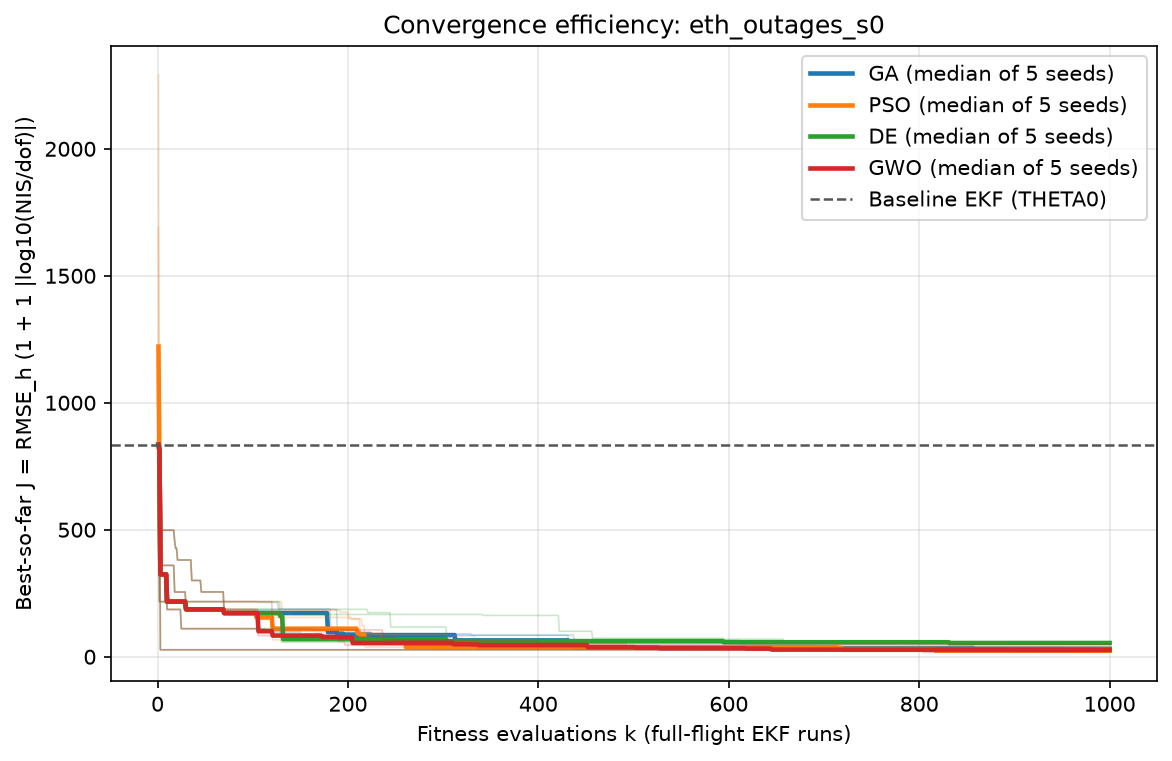
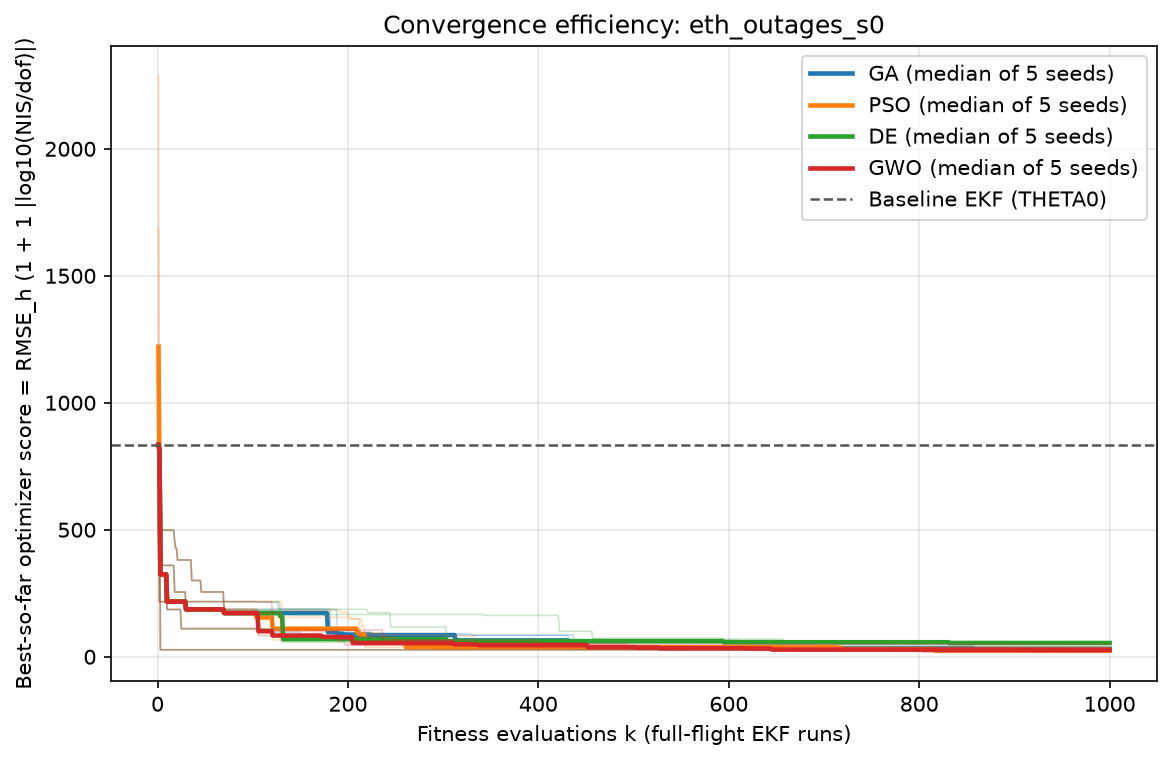
Call J the optimizer score and explain it in the README
- Tables, figure labels, run log and PSO progress line say "optimizer score" instead of J
- README: new section with the formula in words, a worked ETH example and why the log
- Run 2 tables and figures rebuilt with the new labels (numbers unchanged)

Changed region(s): [[0.0, 0.0604, 0.0307, 0.9067]]

diff --git a/main.py b/main.py
@@ -13,7 +13,7 @@ results/<scenario>/:
               75 % of the path: about 5 m added error, about 15 m, and a complete outage. Also writes
               sections.md/png (plot_sections.py): how each filter behaves in those sections.
     gps16m    the first run, kept in results/gps16m/: 16 m white GPS noise everywhere, position-only.
-Objective (NIS_WEIGHT): outages scores accuracy and consistency together, J = RMSE_h * (1 + |log10(mean
+Optimizer score (NIS_WEIGHT): outages scores accuracy and consistency together, score = RMSE_h * (1 + |log10(mean
 NIS / dof)|) (ekf.tuning.objective_value); gps16m keeps run 1's RMSE_h alone. GPS plausibility rule
 (PLAUSIBILITY): outages discards any fix the platform could not have reached (ekf.filter.OPTIONS).
 Preparing the datasets processes raw_data/ if needed and writes the degraded copies
@@ -22,7 +22,7 @@ serves one at a time: GA, PSO, DE, GWO, each with its own config (population 100
 evaluations per seed, seeds 1-5, BACKEND = "gpu"). Per dataset:
 
     1. validation   the first candidates GA scores for seed 1 are scored again by the filterpy
-                    reference on the CPU; the run stops if any difference (J, RMSE, NIS) exceeds the tolerance
+                    reference on the CPU; the run stops if any difference (score, RMSE, NIS) exceeds the tolerance
     2. baseline     THETA0 through the same fitness
     3. GA, PSO, DE, GWO: every seed, then the accounting check (n_evals = n_objective_evals =
                     convergence rows = MAX_EVALS) and the mean NIS of every incumbent on the
@@ -215,7 +215,7 @@ def validate(data, out, population, n_candidates, n_workers):
     if summary_path.exists():
         summary = json.loads(summary_path.read_text())
         if summary.get("passed"):
-            say(f"  validation: already passed (max difference of J {summary['max_diff_fitness']:.2e})")
+            say(f"  validation: already passed (max difference of the score {summary['max_diff_fitness']:.2e})")
             return summary
     out.mkdir(parents=True, exist_ok=True)
     n = min(n_candidates, population)
@@ -237,7 +237,7 @@ def validate(data, out, population, n_candidates, n_workers):
         say(f"  validation: {summary['n_unstable_excluded']} numerically chaotic candidate(s) (mean NIS > "
             f"{summary['nis_unstable']:g}) left out of the tolerance check; their |GPU - CPU| is up to "
             f"{summary['max_diff_fitness_unstable']:.1f} m, as rounding decides them on any backend")
-    say(f"  validation: max |GPU - CPU| of J {summary['max_diff_fitness']:.2e} -> "
+    say(f"  validation: max |GPU - CPU| of the score {summary['max_diff_fitness']:.2e} -> "
         f"{'PASSED' if summary['passed'] else 'FAILED'} (tolerance {TOL_RMSE:g}, relative above 1)")
     return summary
 
@@ -254,7 +254,7 @@ def baseline(data, out):
         rmse_base = row["rmse_h"]
         row.update(delta_vs_baseline=0.0, improvement_vs_baseline_pct=0.0)
         ekf.save_run(out, row, tracker)
-    say(f"  baseline: THETA0 J {row['fitness']:.4f}, RMSE_h {rmse_base:.4f} m, mean NIS {row['mean_nis']:.2f} "
+    say(f"  baseline: THETA0 score {row['fitness']:.4f}, RMSE_h {rmse_base:.4f} m, mean NIS {row['mean_nis']:.2f} "
         f"(consistent: {row['nis_dof']}), raw GPS {rmse_gps:.4f} m")
     return {"rmse_h": rmse_base, "rmse_gps": rmse_gps}
 
@@ -296,7 +296,7 @@ def run_optimizer(name, data, out, smoke):
             table.to_csv(out / f"incumbents_seed{s}.csv", index=False)
     t_inc = time.perf_counter() - t1
     best = runs.loc[runs["fitness"].idxmin()]
-    say(f"  {name} done: best seed {int(best['seed'])} J {best['fitness']:.4f}, RMSE_h {best['rmse_h']:.4f} m, "
+    say(f"  {name} done: best seed {int(best['seed'])} score {best['fitness']:.4f}, RMSE_h {best['rmse_h']:.4f} m, "
         f"mean NIS {best['mean_nis']:.2f}; "
         f"search {t_search / 60:.1f} min, incumbents {t_inc / 60:.1f} min")
     return {"seeds_run": to_run, "search_s": t_search, "incumbents_s": t_inc, "checks": checks}

diff --git a/plot_response.py b/plot_response.py
@@ -5,13 +5,13 @@
 
 Per dataset (results/<scenario>/<dataset>/), from runs.csv and convergence_seed<s>.csv of baseline, GA,
 PSO, DE and GWO (written by ekf.save_run):
-    results_table.md/.csv   mean +- std per optimizer: objective J, accuracy (RMSE_h), consistency (NIS),
+    results_table.md/.csv   mean +- std per optimizer: optimizer score, accuracy (RMSE_h), consistency (NIS),
                             convergence, compute
     convergence.png         best-so-far objective against evaluations, every seed and the median
 
 results/<scenario>/summary/ (one panel per dataset):
     results_table.md/.csv        every dataset and optimizer in one table
-    best_values.md/.csv          the best seed (lowest J) of each optimizer on each dataset, with its theta
+    best_values.md/.csv          the best seed (lowest optimizer score) of each optimizer on each dataset, with its theta
     convergence.png              each optimizer's median best-so-far objective, band = best to worst seed
     accuracy_vs_nis.png          the two measures: RMSE_h against mean NIS, one dot per seed, a diamond
                                  per optimizer mean, the consistent NIS (= dof) marked
@@ -35,7 +35,7 @@ GROUPS = ["baseline", *OPTIMIZERS]
 COLORS = {"baseline": "#555555", "GA": "#1f77b4", "PSO": "#ff7f0e", "DE": "#2ca02c", "GWO": "#d62728"}
 
 # Table columns in the fixed order: objective, accuracy, consistency, convergence, compute
-TABLE = [("fitness", "Objective J"),
+TABLE = [("fitness", "Optimizer score"),
          ("rmse_h", "Whole-flight RMSE_h (m)"),
          ("delta_vs_baseline", "vs baseline EKF (m)"),
          ("delta_vs_gps", "vs raw GPS (m)"),
@@ -70,10 +70,10 @@ def load_runs(out, groups=GROUPS):
 
 
 def objective(runs):
-    """(column, axis label) of what the search minimised: J, or RMSE_h for runs scored on it alone."""
+    """(column, axis label) of what the search minimised: the optimizer score, or RMSE_h for runs scored on it alone."""
     w = runs["nis_weight"].iloc[0] if "nis_weight" in runs and len(runs) else 0.0
     if "fitness" in runs and w:
-        return "fitness", f"J = RMSE_h (1 + {w:g} |log10(NIS/dof)|)"
+        return "fitness", f"optimizer score = RMSE_h (1 + {w:g} |log10(NIS/dof)|)"
     return "rmse_h", "RMSE_h (m)"
 
 
@@ -268,7 +268,7 @@ def summary(root, datasets, optimizers=OPTIMIZERS):
     allt = pd.concat(rows)
     allt.to_csv(out / "results_table.csv")
     keep = ["fitness", "rmse_h", "delta_vs_baseline", "delta_vs_gps", "mean_nis", "evals_to_converge", "t_total"]
-    lines = ["| Dataset | Method | Runs | J | RMSE_h (m) | vs baseline (m) | vs raw GPS (m) | Mean NIS (dof) | "
+    lines = ["| Dataset | Method | Runs | Optimizer score | RMSE_h (m) | vs baseline (m) | vs raw GPS (m) | Mean NIS (dof) | "
              "Evals to 99 % | T_total (s) |",
              "|---|---|---:|---:|---:|---:|---:|---:|---:|---:|"]
     for name, r in allt.iterrows():
@@ -281,7 +281,7 @@ def summary(root, datasets, optimizers=OPTIMIZERS):
     if best:
         b = pd.DataFrame(best)
         b.to_csv(out / "best_values.csv", index=False)
-        head = ("| Dataset | Optimizer (seed) | J | RMSE_h (m) | vs GPS (m) | NIS | "
+        head = ("| Dataset | Optimizer (seed) | Optimizer score | RMSE_h (m) | vs GPS (m) | NIS | "
                 + " | ".join(f"`{t}`" for t in THETA_NAMES) + " |")
         lines = [head, "|---|---|" + "---:|" * (4 + len(THETA_NAMES))]
         for _, r in b.iterrows():

diff --git a/ekf/tuning.py b/ekf/tuning.py
@@ -60,7 +60,7 @@ def theta_to_QR(theta):
 
 
 def objective_value(rmse_h, mean_nis, dof, ok=True):
-    """J from the two measures, element-wise for arrays; PENALTY for a failed run."""
+    """The optimizer score J from the two measures, element-wise for arrays; PENALTY for a failed run."""
     rmse_h, mean_nis = np.asarray(rmse_h, dtype=float), np.asarray(mean_nis, dtype=float)
     w = OBJECTIVE["nis_weight"]
     with np.errstate(divide="ignore", invalid="ignore"):
@@ -141,7 +141,7 @@ def evaluate(data, theta, bias0=None, x0=None):
 
 
 def fitness(data, theta):
-    """The optimization objective J(theta): whole-flight RMSE_h weighted by NIS consistency."""
+    """The optimizer score J(theta): whole-flight RMSE_h weighted by NIS consistency."""
     return evaluate(data, theta)["fitness"]
 
 

diff --git a/PSO.py b/PSO.py
@@ -39,7 +39,7 @@ class RunLog:
         rows.insert(0, "seed", self.seed)
         rows.to_csv(self.path, mode="a", index=False, header=not self.path.exists())
         print(f"seed {self.seed}  iter {iteration:3d}  k {cost_fn.n_evals:5d}  "
-              f"best J {cost_fn.best_cost:.4f}  elapsed {cost_fn.t_total:7.0f} s", flush=True)
+              f"best score {cost_fn.best_cost:.4f}  elapsed {cost_fn.t_total:7.0f} s", flush=True)
 
 
 def pso(cost_fn, rng, swarm_size=cfg.SWARM_SIZE, log=None):

diff --git a/README.md b/README.md
@@ -56,7 +56,7 @@ It runs from `main` with a CUDA build of PyTorch and refuses to start on another
 It first prepares the datasets: a source missing from `processed_data/` is processed from `raw_data/`, and its degraded copy is written by `make_noisy_gps.py` (`SECTIONS` there for `outages`, `NOISE` in `main.py` for `gps16m`); both steps are skipped when the files are already there. Then, for each dataset, it:
 
 1. centres `THETA0` and the bounds on that dataset (`ekf.load_data`, see below);
-2. checks the GPU objective: the first 24 candidates GA scores for seed 1 are scored again by the filterpy reference on the CPU; the run stops if any difference in J, RMSE or NIS exceeds `TOL_RMSE = 1e-6` (absolute up to 1, relative above). A candidate whose filter is numerically chaotic (mean NIS above 1,000) is reported but not held to the tolerance: on `street00_gps64m_s0` one such candidate (mean NIS about 75,000, vertical error about 50 km) moves between 82 and 123 m on the CPU alone when its parameters change by 10⁻¹², so rounding decides its result on any backend;
+2. checks the GPU objective: the first 24 candidates GA scores for seed 1 are scored again by the filterpy reference on the CPU; the run stops if any difference in the optimizer score, RMSE or NIS exceeds `TOL_RMSE = 1e-6` (absolute up to 1, relative above). A candidate whose filter is numerically chaotic (mean NIS above 1,000) is reported but not held to the tolerance: on `street00_gps64m_s0` one such candidate (mean NIS about 75,000, vertical error about 50 km) moves between 82 and 123 m on the CPU alone when its parameters change by 10⁻¹², so rounding decides its result on any backend;
 3. scores the baseline `THETA0`;
 4. runs GA, PSO, DE and GWO, five seeds each, then checks that every seed used exactly 1,000 evaluations (`n_evals`, `n_objective_evals` and the convergence-curve rows), and scores the mean NIS of every incumbent (each best-so-far θ) of every seed on the GPU (`ekf/response.py`), kept as data in `incumbents_seed<s>.csv`;
 5. writes the dataset's table and convergence figure.
@@ -124,11 +124,11 @@ The vehicles are slow (about 1.3 m/s on iNav-WHU, 0.6–0.9 m/s on ETH in these 
 
 **GPS plausibility rule.** In this scenario the filter discards any fix the platform could not have reached since the last accepted one, and keeps its IMU prediction instead ([GPS plausibility rule](#gps-plausibility-rule)).
 
-**Objective: accuracy and consistency.** Run 1 minimised RMSE_h alone, and its tuned filters ended far from consistent: mean NIS 0.1–1 on iNav-WHU and up to 190 on ETH, against 3 for a consistent filter. This scenario scores both measures, over the whole drive with the sections included:
+**Objective: accuracy and consistency.** Run 1 minimised RMSE_h alone, and its tuned filters ended far from consistent: mean NIS 0.1–1 on iNav-WHU and up to 190 on ETH, against 3 for a consistent filter. This scenario tunes on one **optimizer score** that combines both measures, over the whole drive with the sections included:
 
-$$J(\theta) = \text{RMSE}_h \cdot \left(1 + w \left|\log_{10}\frac{\overline{\text{NIS}}}{\text{dof}}\right|\right), \qquad w = 1$$
+$$\text{optimizer score}(\theta) = \text{RMSE}_h \cdot \left(1 + w \left|\log_{10}\frac{\overline{\text{NIS}}}{\text{dof}}\right|\right), \qquad w = 1$$
 
-so a filter whose mean NIS equals the number of GPS channels used (dof: 6 on ETH, with velocity; 3 on iNav-WHU) scores its RMSE_h, and one that is 10 times over- or underconfident counts double ([Canonical fitness](#canonical-fitness)). On 200 random candidates per dataset (`THETA0` and 199 uniform in the bounds, on the GPU), the lowest RMSE_h on `playground00` is 1.82 m at mean NIS 94.5, and the lowest J is 2.03 m at NIS 3.23. On `street00` J picks 2.39 m at NIS 3.06, rather than 2.26 m at NIS 4.19. On ETH both pick the same candidate, 53.1 m at NIS 2.15.
+so a filter whose mean NIS equals the number of GPS channels used (dof: 6 on ETH, with velocity; 3 on iNav-WHU) scores its RMSE_h, and one that is 10 times over- or underconfident counts double ([The optimizer score](#the-optimizer-score) explains it with an example). On 200 random candidates per dataset (`THETA0` and 199 uniform in the bounds, on the GPU), the lowest RMSE_h on `playground00` is 1.82 m at mean NIS 94.5, and the lowest optimizer score is 2.03 m at NIS 3.23. On `street00` the score picks 2.39 m at NIS 3.06, rather than 2.26 m at NIS 4.19. On ETH both pick the same candidate, 53.1 m at NIS 2.15.
 
 **What `plot_sections.py` reports.** For the baseline and the best seed of each optimizer, rerun on the filterpy reference, per section: the filter's RMSE_h and largest error in the section, its error when the section ends (for the outage, the drift on the IMU alone), RMSE_h over the next 30 s, the seconds until the error is back within the filter's own RMSE_h outside the sections, and the mean NIS of the updates in the section (how far the filter's confidence is from the degraded GPS); plus each run's RMSE_h outside the sections and over the whole drive. Files: `sections.md`/`.csv`/`.png` per dataset and in `summary/`; the maps also mark the three sections on the ground truth.
 
@@ -196,7 +196,8 @@ import numpy as np
 import ekf
 
 data = ekf.load_data()
-J = ekf.fitness(data, ekf.THETA0)                 # whole-flight horizontal RMSE, metres
+score = ekf.fitness(data, ekf.THETA0)             # optimizer score: RMSE_h weighted by NIS consistency
+rmse = ekf.evaluate(data, ekf.THETA0)["rmse_h"]   # whole-flight horizontal RMSE, metres
 
 # What every optimizer calls: same fitness, plus budget, best-so-far history and timing
 seed = 0
@@ -204,7 +205,7 @@ cost_fn = ekf.make_cost_fn(data, max_evals=1000, n_workers=8)
 population = np.random.default_rng(seed).uniform(ekf.LOWER, ekf.UPPER, (20, 7))
 costs = cost_fn.evaluate_many(population)         # or cost_fn(theta) for one candidate
 # ... the optimizer's own loop, until cost_fn.exhausted ...
-row, _ = ekf.run_summary(data, cost_fn, "GA", seed, rmse_baseline=J)
+row, _ = ekf.run_summary(data, cost_fn, "GA", seed, rmse_baseline=rmse)
 ekf.save_run("results/GA", row, cost_fn)          # runs.csv + convergence_seed<seed>.csv
 cost_fn.close()
 ```
@@ -311,19 +312,55 @@ One map per filter for each dataset: the baseline EKF at `THETA0` (dashed) and t
 
 `python main.py` (scenario `outages`) on an RTX 4060 Laptop GPU, 22 November 2026: GA, PSO, DE and GWO, population 100 × 10 generations = 1,000 evaluations × seeds 1–5, on `eth_outages_s0`, `playground00_outages_s0` and `street00_outages_s0`, each from its own `THETA0`. Setup:
 - the raw GPS of each receiver, with three sections of 76.2 m (250 ft) of travel: about 5 m added error, about 15 m, and an outage ([scenario](#scenario-outages-raw-gps-with-degraded-sections));
-- the objective J, which weighs RMSE_h by NIS consistency ([Canonical fitness](#canonical-fitness));
+- the optimizer score, which weighs RMSE_h by NIS consistency ([below](#the-optimizer-score));
 - the GPS plausibility rule on ([GPS plausibility rule](#gps-plausibility-rule)).
 
-Total 9.75 h: ETH 0.65 h, `playground00` 4.40 h, `street00` 4.64 h. The GPU-vs-filterpy check of J passed on all three datasets (largest scaled difference 7.1 × 10⁻⁹, no chaotic candidates), and every seed used exactly 1,000 evaluations. All numbers are re-scored by the filterpy reference. Full tables:
+Total 9.75 h: ETH 0.65 h, `playground00` 4.40 h, `street00` 4.64 h. The GPU-vs-filterpy check of the optimizer score passed on all three datasets (largest scaled difference 7.1 × 10⁻⁹, no chaotic candidates), and every seed used exactly 1,000 evaluations. All numbers are re-scored by the filterpy reference. Full tables:
 - [`results/outages/summary/results_table.md`](results/outages/summary/results_table.md)
 - [`best_values.md`](results/outages/summary/best_values.md)
 - [`sections.md`](results/outages/summary/sections.md)
+
+### The optimizer score
+
+The four optimizers each minimise one number, so the two measures, accuracy (RMSE_h) and consistency (NIS), are combined into one **optimizer score**:
+
+$$\text{optimizer score} = \text{RMSE}_h \times \left(1 + \left|\log_{10}\frac{\text{mean NIS}}{\text{dof}}\right|\right)$$
+
+- **RMSE_h** is the horizontal position error over the whole drive, in metres.
+- **mean NIS / dof** says how honest the filter's confidence is. `dof` is the mean NIS of a consistent filter: 6 on ETH (GPS position and velocity), 3 on iNav-WHU (position only).
+- **The multiplier** is 1 when NIS = dof, so a consistent filter scores exactly its RMSE_h. The further NIS is from dof, too high (overconfident) or too low (underconfident), the larger the multiplier. A filter 10× off either way scores twice its RMSE_h.
+
+The score has no physical unit; it only ranks candidates. Read accuracy from the RMSE_h column and consistency from the NIS column.
+
+**Example, from the ETH rows below:**
+
+| | RMSE_h | Mean NIS (dof 6) | Multiplier | Optimizer score |
+|---|---:|---:|---:|---:|
+| Baseline (`THETA0`) | 609.29 m | 2.55 | 1 + \|log₁₀(2.55 / 6)\| = 1.37 | 835.7 |
+| GWO, best seed | 16.63 m | 5.55 | 1 + \|log₁₀(5.55 / 6)\| = 1.03 | 17.20 |
+
+The baseline's score is 37 % above its RMSE_h because its NIS is less than half of 6; GWO's best seed is nearly consistent, so its score is close to its RMSE_h. On iNav-WHU the tuned filters end at NIS ≈ 3, so their score and RMSE_h nearly coincide (1.845 against 1.834 for GWO on `playground00`).
+
+**Why the log.** NIS is wrong by a factor, not by an amount, and the log measures factors:
+
+| Mean NIS (dof 3) | Plain difference \|NIS − 3\| | \|log₁₀(NIS / 3)\| |
+|---:|---:|---:|
+| 6 (2× overconfident) | 3.0 | 0.30 |
+| 1.5 (2× underconfident) | 1.5 | 0.30 |
+| 30 (10× overconfident) | 27 | 1.0 |
+| 0.3 (10× underconfident) | 2.7 | 1.0 |
+
+1. **Over- and underconfidence count the same.** A plain difference would punish the overconfident filter up to 10× harder, since NIS can grow without limit but cannot fall below 0.
+2. **NIS cannot swamp accuracy.** NIS reached 190 in run 1 and thousands for some random candidates. On the log scale 190 is a multiplier of 2.8, a strong push toward consistency that still leaves RMSE_h in charge.
+3. **It matches the search variables.** θ holds log₁₀ of the noise variances, and NIS scales roughly with how wrong R is (R 10× too small gives NIS about 10× too large). One unit of `log_r_xy` moves the penalty by about one unit, and dividing by `dof` makes it the same on ETH and iNav-WHU.
+
+The weight in front of the log (1 here, `NIS_WEIGHT` in `main.py`) is a choice: at 0.5 the score would lean toward accuracy, at 2 harder toward consistency. Code: `ekf.tuning.objective_value`; details in [Canonical fitness](#canonical-fitness).
 
 ### Headline numbers
 
 Mean ± std over 5 seeds, over the whole drive with the sections included. Raw GPS is the error of the degraded fixes. A consistent filter has mean NIS = dof: 6 on ETH (position and velocity), 3 on iNav-WHU.
 
-| Dataset (raw GPS) | Method | J | RMSE_h (m) | Mean NIS (dof) | Evals to 99 % | Time per seed |
+| Dataset (raw GPS) | Method | Optimizer score | RMSE_h (m) | Mean NIS (dof) | Evals to 99 % | Time per seed |
 |---|---|---:|---:|---:|---:|---:|
 | ETH (4.61 m) | Baseline (`THETA0`) | 835.7 | 609.29 | 2.55 (6) | – | – |
 | | GA | 29.38 ± 6.50 | 25.44 ± 6.94 | 9.45 | 491 ± 366 | 1.8 min |
@@ -358,15 +395,15 @@ The best seed of each optimizer against the baseline (`plot_sections.py`, all nu
 
 1. **Tuning makes the iNav-WHU filter bridge the outage.** At `THETA0` the 54–61 s outage ends 71 m (`playground00`) and 35 m (`street00`) off. The tuned filters end it 0.9–3.8 m and 3.5–11.6 m off, so the whole-drive RMSE_h falls from 6.58 to 1.83 m and from 3.94 to 2.04 m. That is 41 % and 36 % below the raw GPS (3.09 and 3.20 m with the sections). The price is small: outside the sections the tuned filters are 0.04–0.17 m worse than `THETA0` (1.16–1.29 against 1.12 m), which trusts the receiver's ~1 m fixes more.
 2. **The noisy sections are smoothed.** In the 15 m section (GPS error about 17 m) the tuned iNav-WHU filters stay at 5.7–7.3 m, against 9.1–10.0 m at `THETA0`; in the 5 m section 1.9–2.2 m against 2.8 m. On ETH, GPS velocity keeps every filter at 3–5 m in both noisy sections, tuned or not.
-3. **NIS is consistent now.** With J, every iNav-WHU optimizer ends at mean NIS 2.95–3.17 for 3 (run 1: 0.1–1), and ETH at 5.2–9.5 for 6. `THETA0` is overconfident on the degraded GPS (13–17 on iNav-WHU). The mean is over the whole drive. The filter is not told when the GPS degrades, so inside the 15 m section its NIS is still 58–65 on iNav-WHU and 99–235 on ETH, and it is slightly underconfident elsewhere to make up for it.
-4. **ETH's IMU cannot bridge 82 s.** Tuning cuts the outage drift from 7.4 km to 50–292 m and the whole-drive RMSE_h from 609 m to 16.5–53.5 m, but that is still well above the raw GPS (4.61 m). The result depends on the seed (± 7–16 m). GA and DE seed 2 end on the identical θ: both start from the same initial population for the same seed, found their best at evaluation 3, and never improved on it in the other 997. On ETH, J is dominated by how the outage drift happens to fall, which the optimizers cannot steer well.
-5. **GWO and PSO lead.** GWO has the best mean J on all three datasets. PSO is within 0.003 (`playground00`) and 0.02 (`street00`) of it, has the smallest spread on `street00`, and converges fastest on iNav-WHU (156 and 183 evaluations to 99 %, against 365–673 for the others). DE is last on every dataset. On `playground00` all four are within 0.08 of each other in J.
+3. **NIS is consistent now.** With the optimizer score, every iNav-WHU optimizer ends at mean NIS 2.95–3.17 for 3 (run 1: 0.1–1), and ETH at 5.2–9.5 for 6. `THETA0` is overconfident on the degraded GPS (13–17 on iNav-WHU). The mean is over the whole drive. The filter is not told when the GPS degrades, so inside the 15 m section its NIS is still 58–65 on iNav-WHU and 99–235 on ETH, and it is slightly underconfident elsewhere to make up for it.
+4. **ETH's IMU cannot bridge 82 s.** Tuning cuts the outage drift from 7.4 km to 50–292 m and the whole-drive RMSE_h from 609 m to 16.5–53.5 m, but that is still well above the raw GPS (4.61 m). The result depends on the seed (± 7–16 m). GA and DE seed 2 end on the identical θ: both start from the same initial population for the same seed, found their best at evaluation 3, and never improved on it in the other 997. On ETH, the score is dominated by how the outage drift happens to fall, which the optimizers cannot steer well.
+5. **GWO and PSO lead.** GWO has the best mean optimizer score on all three datasets. PSO is within 0.003 (`playground00`) and 0.02 (`street00`) of it, has the smallest spread on `street00`, and converges fastest on iNav-WHU (156 and 183 evaluations to 99 %, against 365–673 for the others). DE is last on every dataset. On `playground00` all four are within 0.08 of each other in the score.
 6. **The plausibility rule.** It discarded 4–5 fixes in each iNav-WHU run and 20–60 of ETH's 13,118.
 7. **Compute.** A seed takes 1.8 min on ETH and 12.2–12.9 min on iNav-WHU; the run took 9.75 h, about the same as run 1 (9.77 h).
 
 ### Graphs
 
-**Convergence: best-so-far J against evaluations, median of 5 seeds; band = best to worst seed**
+**Convergence: best-so-far optimizer score against evaluations, median of 5 seeds; band = best to worst seed**
 
 ![Convergence](results/outages/summary/convergence.png)
 
@@ -572,18 +609,18 @@ complete estimated trajectory vs complete ground truth
       ↓
 whole-flight horizontal RMSE  +  mean NIS of the GPS updates
       ↓
-fitness J(theta)  (ekf.tuning.objective_value)
+optimizer score  (ekf.tuning.objective_value)
 ```
 
-$$J(\theta) = \text{RMSE}_{h,\text{whole}} \cdot \left(1 + w \left|\log_{10}\frac{\overline{\text{NIS}}}{\text{dof}}\right|\right)$$
+$$\text{optimizer score}(\theta) = \text{RMSE}_{h,\text{whole}} \cdot \left(1 + w \left|\log_{10}\frac{\overline{\text{NIS}}}{\text{dof}}\right|\right)$$
 
-`dof` is the number of GPS channels the filter uses (`ekf.nis_dof`), the mean NIS of a consistent filter. The log treats over- and underconfidence alike: NIS = dof × 10 and dof / 10 both multiply RMSE_h by 1 + w. `w` is `ekf.tuning.OBJECTIVE["nis_weight"]`, set by `main.py` per scenario (`NIS_WEIGHT`): 1 for `outages`, 0 for `gps16m`, where J is RMSE_h alone, as in run 1. Every run records both measures apart (`rmse_h`, `mean_nis`, `nis_consistency` = |log10(NIS/dof)|) next to `fitness` and `nis_weight` in `runs.csv`.
+`dof` is the number of GPS channels the filter uses (`ekf.nis_dof`), the mean NIS of a consistent filter. The log treats over- and underconfidence alike: NIS = dof × 10 and dof / 10 both multiply RMSE_h by 1 + w. `w` is `ekf.tuning.OBJECTIVE["nis_weight"]`, set by `main.py` per scenario (`NIS_WEIGHT`): 1 for `outages`, 0 for `gps16m`, where the score is RMSE_h alone, as in run 1. Every run records both measures apart (`rmse_h`, `mean_nis`, `nis_consistency` = |log10(NIS/dof)|) next to the score (`fitness`) and `nis_weight` in `runs.csv`. [The optimizer score](#the-optimizer-score) works through an example.
 
 A run that diverges scores `PENALTY = 10⁶`, above any run that does not: a run counts as diverged when a position passes `MAX_POSITION = 10⁶` m. The old penalty, 1000 m, ranked a diverged run above a long ETH outage drift. The baseline `THETA0` and every optimizer (GA, PSO, DE, GWO and any later one) are scored by this function. Optimizers do not reimplement it; they call it through `FitnessTracker` (`ekf.make_cost_fn`), which:
 
 - counts evaluations and stops at `max_evals` (`BudgetExhausted` for single calls; `evaluate_many` scores only what still fits),
 - clips candidates to the bounds,
-- records $J_k$, the best-so-far $J^*(k)$ and elapsed time after every evaluation,
+- records each evaluation's score $S_k$, the best-so-far $S^*(k)$ and elapsed time after every evaluation,
 - can score a population in parallel (`n_workers`), recording results in population order, so the count and the curve are the same as in a serial run,
 - or, with `backend="gpu"`, score the whole population as one batched EKF on the GPU (next section),
 - numbers each objective call as a generation and records `generation` with every evaluation.
@@ -599,7 +636,7 @@ GPU backend:     [200 candidates] -> batched EKF -> [200 fitness values]
 
 Only the candidate dimension is batched. The time recursion is the reference loop unchanged: the same IMU predictions, the same GPS updates in the same order, quaternion normalisation after each, and the same divergence checks. Each candidate keeps its own state, covariance, $Q_c$ and $R$. All arithmetic is float64. The small quaternion matrices come from constant matrices built from the reference helpers in `filter.py`, so both backends use the same functions. Each IMU step (prediction plus 0, 1 or 2 GPS updates) is recorded once as a CUDA graph and replayed, which removes Python overhead from the 27 048-step loop.
 
-**Equivalence.** `ekf.gpu.compare_with_cpu(data, thetas)` scores the same candidates with both backends; the accepted tolerance is `TOL_RMSE = 1e-6` (on J and every RMSE; absolute up to 1, relative above) and `TOL_NIS_REL = 1e-6`. On the RTX 4060, for GA seed 1's first generation on ETH (200 candidates, in an earlier run), 195 candidates agreed to better than $10^{-12}$ m. The largest fitness difference was $7.4 \times 10^{-8}$ m, for a strongly overconfident candidate (mean NIS 110) whose ill-conditioned updates amplify rounding. The largest relative difference in mean NIS was $7.6 \times 10^{-9}$. A candidate that diverges fails on both backends and scores `PENALTY`. `main.py` repeats this check on every dataset before any optimizer runs (`results/<dataset>/validation/`).
+**Equivalence.** `ekf.gpu.compare_with_cpu(data, thetas)` scores the same candidates with both backends; the accepted tolerance is `TOL_RMSE = 1e-6` (on the optimizer score and every RMSE; absolute up to 1, relative above) and `TOL_NIS_REL = 1e-6`. On the RTX 4060, for GA seed 1's first generation on ETH (200 candidates, in an earlier run), 195 candidates agreed to better than $10^{-12}$ m. The largest fitness difference was $7.4 \times 10^{-8}$ m, for a strongly overconfident candidate (mean NIS 110) whose ill-conditioned updates amplify rounding. The largest relative difference in mean NIS was $7.6 \times 10^{-9}$. A candidate that diverges fails on both backends and scores `PENALTY`. `main.py` repeats this check on every dataset before any optimizer runs (`results/<dataset>/validation/`).
 
 **Reported values always come from the reference.** `run_summary` re-scores the final best theta with the filterpy filter on the CPU. The GPU only drives the search. `best_fitness_search` is the value the search saw and `search_vs_final_diff` shows the (rounding-level) difference.
 
@@ -634,7 +671,7 @@ Optimizers are compared on three dimensions, always in this order:
 | # | Dimension | Question | Primary metric | Column in `runs.csv` |
 |---|---|---|---|---|
 | 1 | Accuracy | Is the final solution good? | $\text{RMSE}_{h,\text{whole}}$ of the best theta | `rmse_h` |
-| 2 | Convergence efficiency | How quickly was a good solution found? | $J^*(k)$ against $k$ | `convergence_seed<seed>.csv`; summary `evals_to_converge` |
+| 2 | Convergence efficiency | How quickly was a good solution found? | $S^*(k)$ against $k$ | `convergence_seed<seed>.csv`; summary `evals_to_converge` |
 | 3 | Computational cost | What effort was needed? | $N_{eval}$ | `n_evals`; secondary `t_total`, `t_eval` |
 
 ### 1. Accuracy
@@ -678,9 +715,9 @@ Each perturbation uses its own fixed seed, so every optimizer sees the same nois
 
 For each run, the best-so-far fitness after every evaluation is recorded:
 
-$$J^*(k) = \min_{i \le k} J_i$$
+$$S^*(k) = \min_{i \le k} S_i$$
 
-The convergence curve, best-so-far whole-flight RMSE against evaluation count $k$, is the primary representation and is plotted for every optimizer and seed. As a single number, `evals_to_converge` is the first $k$ at which the run has made 99 % of its total improvement from $J^*(1)$ to $J^*(N)$; `evals_to_best` is the $k$ of the final best. Two optimizers with the same final RMSE can differ widely here.
+The convergence curve, the best-so-far optimizer score (whole-flight RMSE in run 1) against evaluation count $k$, is the primary representation and is plotted for every optimizer and seed. As a single number, `evals_to_converge` is the first $k$ at which the run has made 99 % of its total improvement from $S^*(1)$ to $S^*(N)$; `evals_to_best` is the $k$ of the final best. Two optimizers with the same final RMSE can differ widely here.
 
 ### 3. Computational cost
 
@@ -712,12 +749,12 @@ Every run produces a row with these values, so the comparison can be laid out as
 | `results/<scenario>/<dataset>/<OPT>/` | `runs.csv` (one row per seed), `convergence_seed<s>.csv` (every evaluation: k, generation, fitness, best-so-far, time, θ), `incumbents_seed<s>.csv` (mean NIS of every best-so-far θ), and the PSO, DE and GWO live logs |
 | `results/<scenario>/<dataset>/` | `results_table.md`/`.csv`, `convergence.png`, `map.png`, `map.html` |
 | `results/<scenario>/<dataset>/` (`outages`) | `sections.md`/`.csv`/`.png`: the filters in each degraded GPS section |
-| `results/<scenario>/summary/` | `results_table.md`/`.csv` (all datasets), `best_values.md`/`.csv` (best seed, lowest J, per optimizer and dataset, with θ), `convergence.png`, `accuracy_vs_convergence.png`, `accuracy_vs_nis.png` |
+| `results/<scenario>/summary/` | `results_table.md`/`.csv` (all datasets), `best_values.md`/`.csv` (best seed, lowest optimizer score, per optimizer and dataset, with θ), `convergence.png`, `accuracy_vs_convergence.png`, `accuracy_vs_nis.png` |
 | `results/<scenario>/main.log`, `results/<scenario>/main_manifest.json` | Console output and per-session record |
 
 `<scenario>` is `outages` or `gps16m`. `<dataset>` is `eth_outages_s0`, `inavwhu/playground00_outages_s0` and `inavwhu/street00_outages_s0`, or `eth_gps16m_nov_s0`, `inavwhu/playground00_gps16m_s0` and `inavwhu/street00_gps16m_s0`. The `summary/` folder of `outages` also has `sections.md`/`.csv`/`.png` over every dataset.
 
-**Summary figures (one panel per dataset).** `convergence.png` shows each optimizer's median best-so-far objective (J, or RMSE_h for run 1) against evaluations, with a band from its best to its worst seed. `accuracy_vs_nis.png` shows the two measures together: final RMSE_h against mean NIS (log scale, the consistent value marked), one dot per seed, one diamond per optimizer. `accuracy_vs_convergence.png` puts final RMSE_h against evaluations to 99 % of improvement: one dot per seed, one diamond per optimizer mean, mean NIS in the legend.
+**Summary figures (one panel per dataset).** `convergence.png` shows each optimizer's median best-so-far optimizer score (RMSE_h alone in run 1) against evaluations, with a band from its best to its worst seed. `accuracy_vs_nis.png` shows the two measures together: final RMSE_h against mean NIS (log scale, the consistent value marked), one dot per seed, one diamond per optimizer. `accuracy_vs_convergence.png` puts final RMSE_h against evaluations to 99 % of improvement: one dot per seed, one diamond per optimizer mean, mean NIS in the legend.
 
 **Committing the results.** Per the branch split, `main` keeps the results and `results` keeps the graphs:
 
@@ -832,7 +869,7 @@ $t_a$ is the time of the last accepted fix and $\hat p_{en}(t_a)$ the filter's h
 
 **Measured on the `outages` datasets** (`THETA0` and 199 random candidates on the GPU, rule off / on with `plausible_m` = 25, 15 and 10 m):
 
-| | `plausible_m` | Fixes discarded at `THETA0` | RMSE_h at `THETA0` (m) | Best J of the 200: RMSE_h (m), NIS |
+| | `plausible_m` | Fixes discarded at `THETA0` | RMSE_h at `THETA0` (m) | Lowest optimizer score of the 200: RMSE_h (m), NIS |
 |---|---:|---:|---:|---|
 | ETH (13,118 fixes) | off | 0 | 610.5 | 53.1, 2.15 |
 | | **25** | 25 | 609.3 | 52.5, 0.67 |

diff --git a/results/outages/inavwhu/playground00_outages_s0/results_table.md b/results/outages/inavwhu/playground00_outages_s0/results_table.md
@@ -1,6 +1,6 @@
 Dataset `inavwhu/playground00_outages_s0`. Raw GPS RMSE_h 3.093 m.
 
-| Optimizer | Runs | Objective J | Whole-flight RMSE_h (m) | vs baseline EKF (m) | vs raw GPS (m) | Mean NIS (expect 3) | abs(log10(NIS / dof)) | Evals to 99 % of improvement | Evals to best | N_eval | T_total (s) | T_objective per eval (s) |
+| Optimizer | Runs | Optimizer score | Whole-flight RMSE_h (m) | vs baseline EKF (m) | vs raw GPS (m) | Mean NIS (expect 3) | abs(log10(NIS / dof)) | Evals to 99 % of improvement | Evals to best | N_eval | T_total (s) | T_objective per eval (s) |
 |---|---:|---:|---:|---:|---:|---:|---:|---:|---:|---:|---:|---:|
 | baseline | 1 | 11.601 | 6.582 | 0.000 | 3.489 | 17.366 | 0.763 | 1 | 1 | 1 | 25.759 | 25.759 |
 | GA | 5 | 1.853 ± 0.011 | 1.836 ± 0.029 | -4.746 ± 0.029 | -1.257 ± 0.029 | 3.046 ± 0.109 | 0.010 ± 0.013 | 366 ± 159 | 887 ± 87 | 1,000 | 732.459 ± 0.068 | 0.732 ± 0.000 |

diff --git a/results/outages/inavwhu/street00_outages_s0/results_table.md b/results/outages/inavwhu/street00_outages_s0/results_table.md
@@ -1,6 +1,6 @@
 Dataset `inavwhu/street00_outages_s0`. Raw GPS RMSE_h 3.202 m.
 
-| Optimizer | Runs | Objective J | Whole-flight RMSE_h (m) | vs baseline EKF (m) | vs raw GPS (m) | Mean NIS (expect 3) | abs(log10(NIS / dof)) | Evals to 99 % of improvement | Evals to best | N_eval | T_total (s) | T_objective per eval (s) |
+| Optimizer | Runs | Optimizer score | Whole-flight RMSE_h (m) | vs baseline EKF (m) | vs raw GPS (m) | Mean NIS (expect 3) | abs(log10(NIS / dof)) | Evals to 99 % of improvement | Evals to best | N_eval | T_total (s) | T_objective per eval (s) |
 |---|---:|---:|---:|---:|---:|---:|---:|---:|---:|---:|---:|---:|
 | baseline | 1 | 6.475 | 3.940 | 0.000 | 0.738 | 13.199 | 0.643 | 1 | 1 | 1 | 27.381 | 27.381 |
 | GA | 5 | 2.265 ± 0.098 | 2.222 ± 0.109 | -1.718 ± 0.109 | -0.979 ± 0.109 | 2.949 ± 0.175 | 0.019 ± 0.017 | 593 ± 221 | 755 ± 267 | 1,000 | 772.179 ± 0.097 | 0.772 ± 0.000 |

diff --git a/results/outages/eth_outages_s0/results_table.md b/results/outages/eth_outages_s0/results_table.md
@@ -1,6 +1,6 @@
 Dataset `eth_outages_s0`. Raw GPS RMSE_h 4.612 m.
 
-| Optimizer | Runs | Objective J | Whole-flight RMSE_h (m) | vs baseline EKF (m) | vs raw GPS (m) | Mean NIS (expect 6) | abs(log10(NIS / dof)) | Evals to 99 % of improvement | Evals to best | N_eval | T_total (s) | T_objective per eval (s) |
+| Optimizer | Runs | Optimizer score | Whole-flight RMSE_h (m) | vs baseline EKF (m) | vs raw GPS (m) | Mean NIS (expect 6) | abs(log10(NIS / dof)) | Evals to 99 % of improvement | Evals to best | N_eval | T_total (s) | T_objective per eval (s) |
 |---|---:|---:|---:|---:|---:|---:|---:|---:|---:|---:|---:|---:|
 | baseline | 1 | 835.673 | 609.294 | 0.000 | 604.683 | 2.550 | 0.372 | 1 | 1 | 1 | 5.313 | 5.313 |
 | GA | 5 | 29.383 ± 6.498 | 25.441 ± 6.939 | -583.854 ± 6.939 | 20.829 ± 6.939 | 9.454 ± 4.821 | 0.175 ± 0.195 | 491 ± 366 | 720 ± 404 | 1,000 | 106.187 ± 0.109 | 0.106 ± 0.000 |

diff --git a/results/outages/summary/best_values.md b/results/outages/summary/best_values.md
@@ -1,4 +1,4 @@
-| Dataset | Optimizer (seed) | J | RMSE_h (m) | vs GPS (m) | NIS | `log_q_acc` | `log_q_gyro` | `log_q_ba` | `log_q_bg` | `log_r_xy` | `log_r_z` | `log_r_vel` |
+| Dataset | Optimizer (seed) | Optimizer score | RMSE_h (m) | vs GPS (m) | NIS | `log_q_acc` | `log_q_gyro` | `log_q_ba` | `log_q_bg` | `log_r_xy` | `log_r_z` | `log_r_vel` |
 |---|---|---:|---:|---:|---:|---:|---:|---:|---:|---:|---:|---:|
 | eth_outages_s0 | GA (5) | 19.700 | 19.598 | +14.987 | 5.93 | -0.22 | -0.30 | -8.00 | -6.16 | 0.77 | 0.49 | 0.52 |
 | eth_outages_s0 | PSO (2) | 22.296 | 16.491 | +11.880 | 13.49 | -0.27 | -1.92 | -2.23 | -6.93 | 0.72 | 0.13 | -0.36 |

diff --git a/results/outages/summary/results_table.md b/results/outages/summary/results_table.md
@@ -1,6 +1,6 @@
 Mean ± std over seeds.
 
-| Dataset | Method | Runs | J | RMSE_h (m) | vs baseline (m) | vs raw GPS (m) | Mean NIS (dof) | Evals to 99 % | T_total (s) |
+| Dataset | Method | Runs | Optimizer score | RMSE_h (m) | vs baseline (m) | vs raw GPS (m) | Mean NIS (dof) | Evals to 99 % | T_total (s) |
 |---|---|---:|---:|---:|---:|---:|---:|---:|---:|
 | eth_outages_s0 | baseline | 1 | 835.673 | 609.294 | 0.000 | 604.683 | 2.550 (6) | 1 | 5.313 |
 | eth_outages_s0 | GA | 5 | 29.383 ± 6.498 | 25.441 ± 6.939 | -583.854 ± 6.939 | 20.829 ± 6.939 | 9.454 ± 4.821 (6) | 491 ± 366 | 106.187 ± 0.109 |
